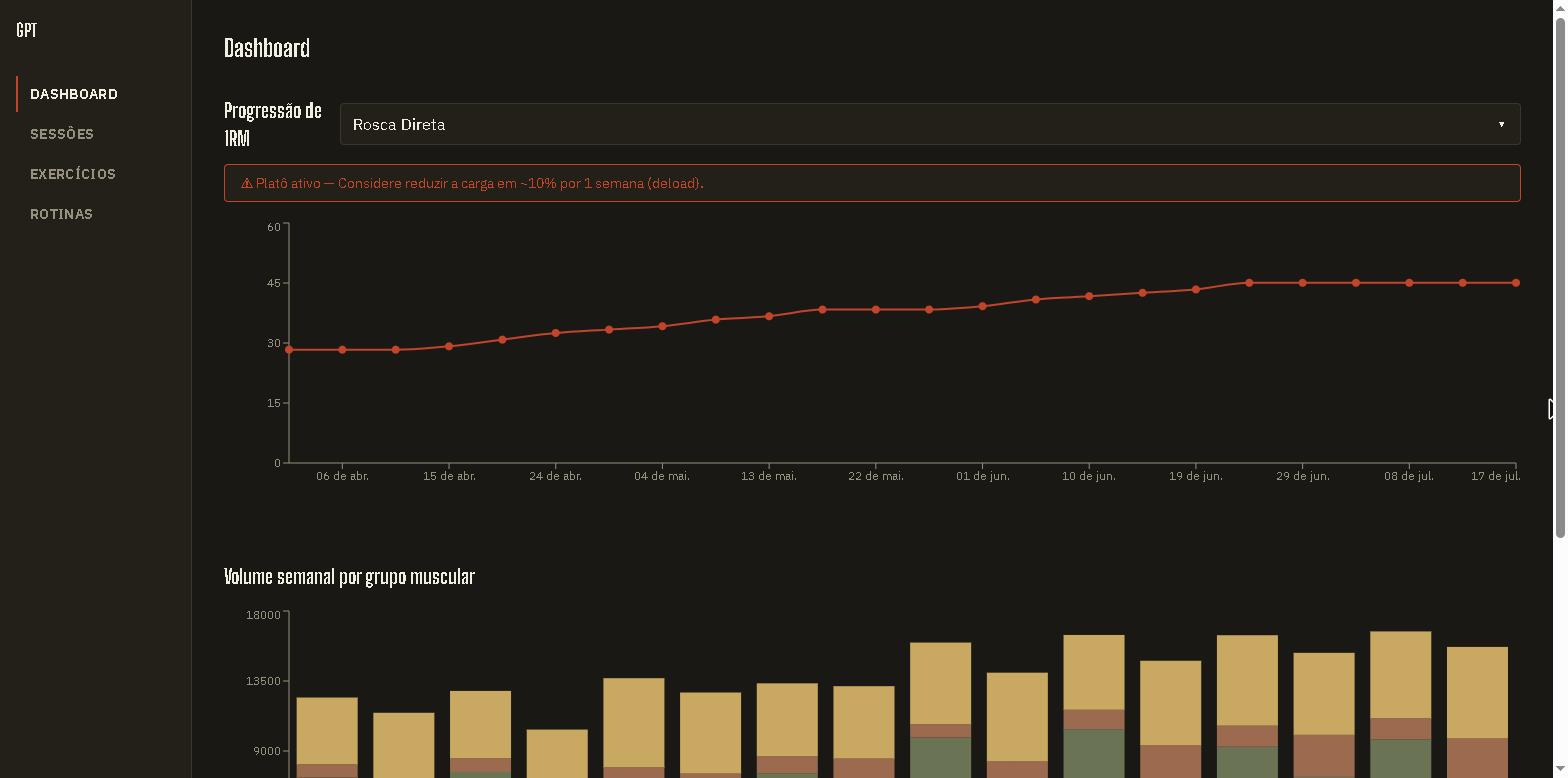
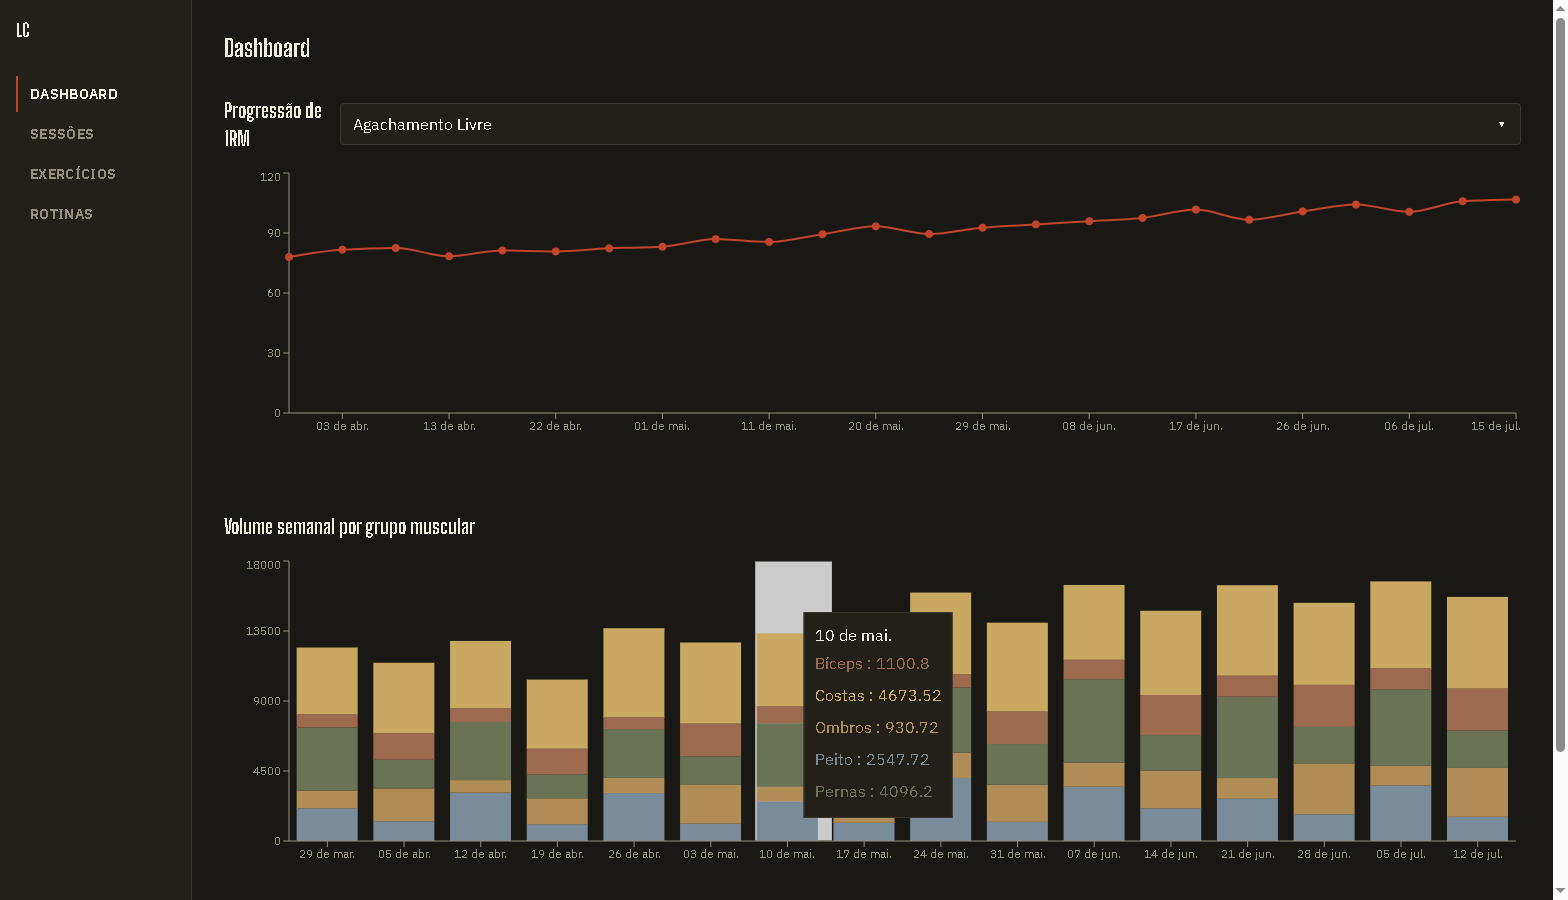
docs: polir README — remove Status, corrige alinhamento de screenshots e tree
Recaptura dashboard.png no mesmo viewport dos outros 3 screenshots
(1568x900) para o grid não desalinhar. Corrige bug estrutural na árvore
de pastas (linha órfã unit/integration) e realinha comentários via
script. Remove seção Status (redundante com o resto do README) e
padroniza "sets" -> "séries".

diff --git a/README.md b/README.md
@@ -53,7 +53,7 @@ O que separa o LiftCurve de um CRUD de treino comum:
 
 - Cadastro e login com JWT (access token + refresh token opaco rotacionado)
 - Catálogo de exercícios global + exercícios customizados por usuário
-- Construtor de rotinas de treino (exercícios, sets, reps, carga planejada)
+- Construtor de rotinas de treino (exercícios, séries, reps, carga planejada)
 - Registro de sessão de treino com séries em tempo real (peso, reps, RPE opcional)
 - Cálculo automático de 1RM estimado a cada série
 - Dashboard com progressão de 1RM, volume semanal por grupo muscular e alertas de platô
@@ -135,29 +135,30 @@ flowchart LR
 
 ```text
 gym-progress-tracker/
-├── backend/                          # Quarkus (Java 21)
+├── backend/                                # Quarkus (Java 21)
 │   ├── src/main/java/com/rsinelli/gymtracker/
-│   │   ├── resource/                 # Endpoints REST
-│   │   ├── service/                  # Regras de negócio (1RM, volume, platô)
-│   │   ├── repository/               # Panache Repository (acesso a dado)
-│   │   ├── entity/                   # Entidades JPA
-│   │   ├── dto/                      # Request/response (records)
-│   │   ├── exception/                # Exceções + ExceptionMapper
-│   │   ├── security/                 # JWT, CurrentUser, hashing
-│   │   └── seed/                     # Seed da conta demo
+│   │   ├── resource/                   # Endpoints REST
+│   │   ├── service/                    # Regras de negócio (1RM, volume, platô)
+│   │   ├── repository/                 # Panache Repository (acesso a dado)
+│   │   ├── entity/                     # Entidades JPA
+│   │   ├── dto/                        # Request/response (records)
+│   │   ├── exception/                  # Exceções + ExceptionMapper
+│   │   ├── security/                   # JWT, CurrentUser, hashing
+│   │   └── seed/                       # Seed da conta demo
 │   ├── src/main/resources/db/migration/  # Migrations Flyway
-│   └── src/test/java/.../unit/       # Testes unitários (calculators)
-│               .../integration/      # Testes de integração (Testcontainers)
-├── frontend/                          # Vite + React + TypeScript
+│   └── src/test/java/.../
+│       ├── unit/                         # Testes unitários (calculators)
+│       └── integration/                  # Testes de integração (Testcontainers)
+├── frontend/                               # Vite + React + TypeScript
 │   └── src/
-│       ├── api/                      # Clientes HTTP por domínio
-│       ├── components/               # UI compartilhada (Button, Modal, PlateStat...)
-│       ├── context/                  # AuthContext
-│       ├── lib/                      # apiClient, caseConversion, formatDate...
-│       ├── routes/                   # AppLayout, ProtectedRoute
-│       └── features/                 # auth/, exercises/, routines/, sessions/, dashboard/
-├── docs/                              # Specs, plans, screenshots, DEPLOY.md
-├── docker-compose.yml                 # Postgres + backend + frontend
+│       ├── api/                          # Clientes HTTP por domínio
+│       ├── components/                   # UI compartilhada (Button, Modal, PlateStat...)
+│       ├── context/                      # AuthContext
+│       ├── lib/                          # apiClient, caseConversion, formatDate...
+│       ├── routes/                       # AppLayout, ProtectedRoute
+│       └── features/                     # auth/, exercises/, routines/, sessions/, dashboard/
+├── docs/                                   # Specs, plans, screenshots, DEPLOY.md
+├── docker-compose.yml                      # Postgres + backend + frontend
 └── README.md
 ```
 
@@ -221,18 +222,6 @@ Passo a passo completo de configuração (variáveis de ambiente, CORS, CSP) em
 
 - Frontend: https://liftcurve.vercel.app
 - Backend (API): https://liftcurve.onrender.com
-
-## Status
-
-- [x] Sprint 0 — Fundações
-- [x] Sprint 1 — Schema + Auth
-- [x] Sprint 2 — Exercícios + Rotinas
-- [x] Sprint 3 — Sessões + Domínio Core (1RM, volume, platô)
-- [x] Sprint 4 — API polish + Seed
-- [x] Sprint 5a — Frontend Core (Fundação + Auth + Exercícios + Rotinas)
-- [x] Sprint 5b — Frontend Sessões + Dashboard (Recharts)
-- [x] Sprint 6 — Testes, CI/CD, Deploy
-- [x] Sprint 7 — README final + Polish
 
 ## Aprendizados
 
